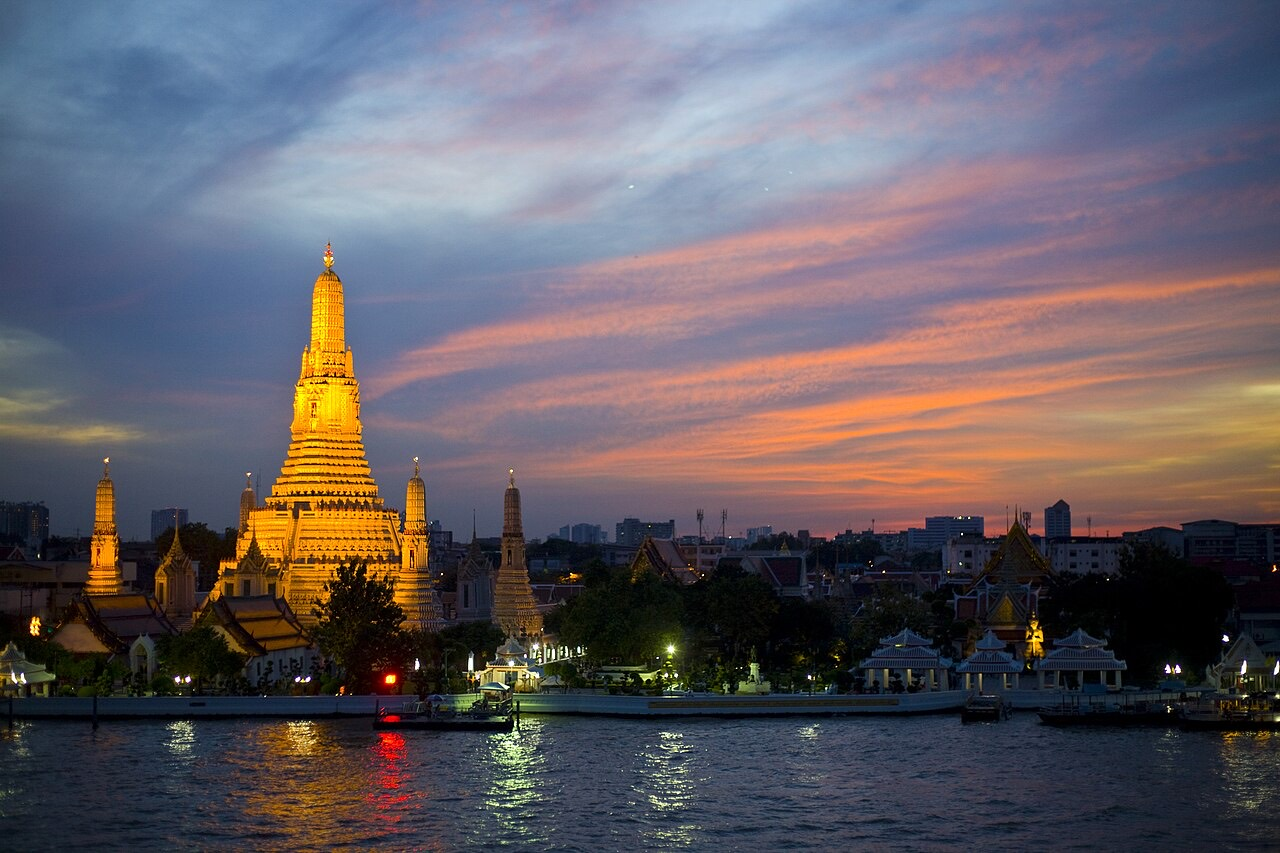
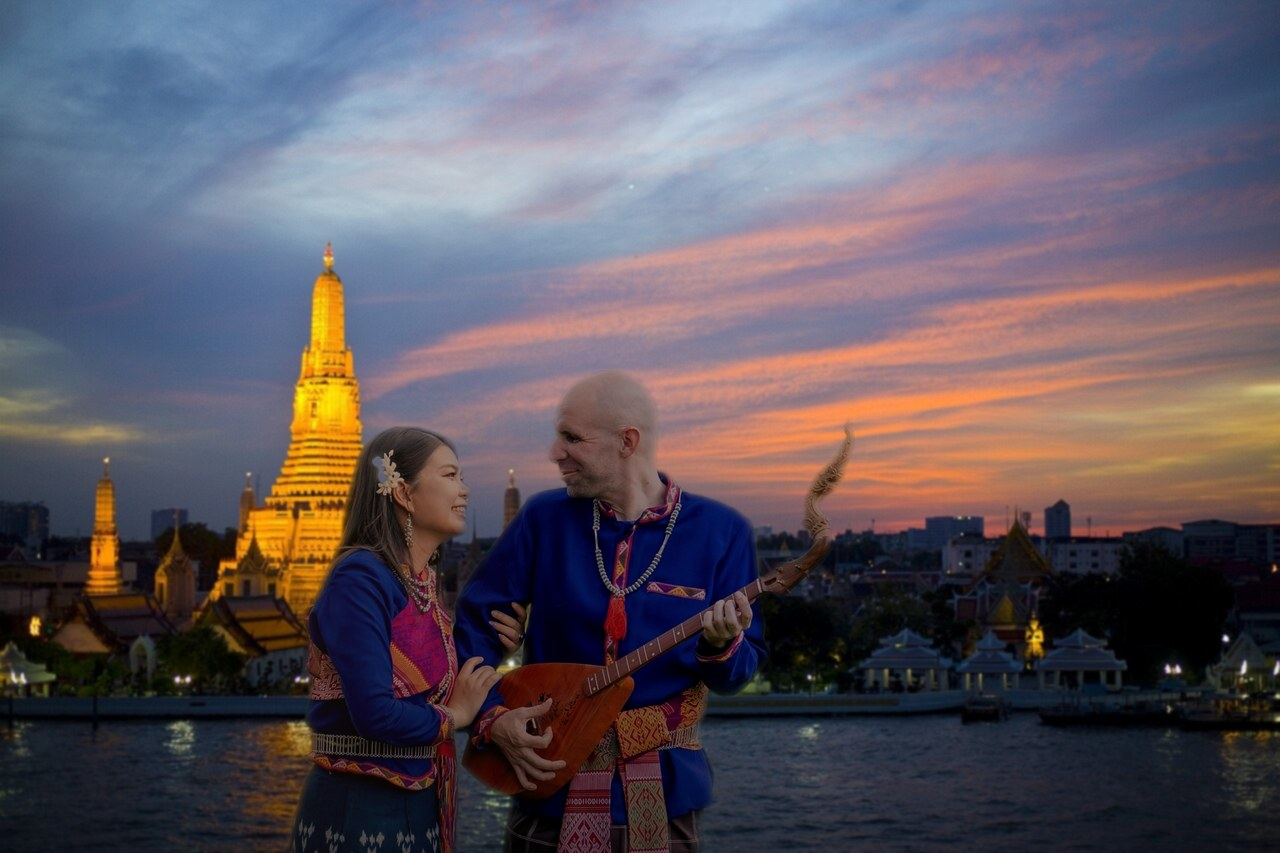
feat(home): cover montage of the couple in front of Wat Arun

diff --git a/index.html b/index.html
@@ -184,7 +184,7 @@ document.documentElement.className="lang-"+l;document.documentElement.lang=l;})(
 </script>
 </head>
 <body>
-<header class="top"><span></span><div class="switch" role="group" aria-label="Language / Langue"><button type="button" data-lang="en" lang="en">EN</button><button type="button" data-lang="fr" lang="fr">FR</button></div></header><section class="hero home-hero"><img src="img/cover.jpg?v=243bd205" alt="" width="1280" height="853" style="object-position:22% 50%"><div class="hero-text"><h1><span lang="en" class="l-en">Thailand Trip Guide</span><span lang="fr" class="l-fr">Thailand Trip Guide</span></h1><p class="blurb"><span lang="en" class="l-en">Palaces, temples, prehistory and sacred places, to read or to listen.</span><span lang="fr" class="l-fr">Palais, temples, préhistoire et lieux sacrés, à lire ou à écouter.</span></p></div></section><main class="sheet"><h2 class="section-title"><span lang="en" class="l-en">Day plans</span><span lang="fr" class="l-fr">Programmes du jour</span></h2><ul class="day-cards"><li><a class="day-card" href="days/2026-11-17/"><span class="badge"><svg viewBox="0 0 24 24" aria-hidden="true"><rect x="3.5" y="5" width="17" height="15" rx="2.5" fill="none" stroke="currentColor" stroke-width="1.8"/><path d="M3.5 10h17M8 3v4M16 3v4" fill="none" stroke="currentColor" stroke-width="1.8" stroke-linecap="round"/></svg></span><span class="day-card-text"><span class="eyebrow"><span lang="en" class="l-en">Day plan · Bangkok</span><span lang="fr" class="l-fr">Programme du jour · Bangkok</span></span><strong><span lang="en" class="l-en">Tuesday 17 November 2026</span><span lang="fr" class="l-fr">Mardi 17 novembre 2026</span></strong><span class="day-card-meta">13:00–20:10</span></span><svg class="i-chev" viewBox="0 0 24 24" aria-hidden="true"><path d="M9 5l7 7-7 7" fill="none" stroke="currentColor" stroke-width="2.2" stroke-linecap="round" stroke-linejoin="round"/></svg></a></li><li><a class="day-card" href="days/2026-11-18/"><span class="badge"><svg viewBox="0 0 24 24" aria-hidden="true"><rect x="3.5" y="5" width="17" height="15" rx="2.5" fill="none" stroke="currentColor" stroke-width="1.8"/><path d="M3.5 10h17M8 3v4M16 3v4" fill="none" stroke="currentColor" stroke-width="1.8" stroke-linecap="round"/></svg></span><span class="day-card-text"><span class="eyebrow"><span lang="en" class="l-en">Day plan · Ayutthaya</span><span lang="fr" class="l-fr">Programme du jour · Ayutthaya</span></span><strong><span lang="en" class="l-en">Wednesday 18 November 2026</span><span lang="fr" class="l-fr">Mercredi 18 novembre 2026</span></strong><span class="day-card-meta">08:00–17:00</span></span><svg class="i-chev" viewBox="0 0 24 24" aria-hidden="true"><path d="M9 5l7 7-7 7" fill="none" stroke="currentColor" stroke-width="2.2" stroke-linecap="round" stroke-linejoin="round"/></svg></a></li><li><a class="day-card" href="days/2026-11-19/"><span class="badge"><svg viewBox="0 0 24 24" aria-hidden="true"><rect x="3.5" y="5" width="17" height="15" rx="2.5" fill="none" stroke="currentColor" stroke-width="1.8"/><path d="M3.5 10h17M8 3v4M16 3v4" fill="none" stroke="currentColor" stroke-width="1.8" stroke-linecap="round"/></svg></span><span class="day-card-text"><span class="eyebrow"><span lang="en" class="l-en">Day plan · Udon Thani</span><span lang="fr" class="l-fr">Programme du jour · Udon Thani</span></span><strong><span lang="en" class="l-en">Thursday 19 November 2026</span><span lang="fr" class="l-fr">Jeudi 19 novembre 2026</span></strong><span class="day-card-meta">19:00–20:30</span></span><svg class="i-chev" viewBox="0 0 24 24" aria-hidden="true"><path d="M9 5l7 7-7 7" fill="none" stroke="currentColor" stroke-width="2.2" stroke-linecap="round" stroke-linejoin="round"/></svg></a></li><li><a class="day-card" href="days/2026-11-20/"><span class="badge"><svg viewBox="0 0 24 24" aria-hidden="true"><rect x="3.5" y="5" width="17" height="15" rx="2.5" fill="none" stroke="currentColor" stroke-width="1.8"/><path d="M3.5 10h17M8 3v4M16 3v4" fill="none" stroke="currentColor" stroke-width="1.8" stroke-linecap="round"/></svg></span><span class="day-card-text"><span class="eyebrow"><span lang="en" class="l-en">Day plan · Udon Thani</span><span lang="fr" class="l-fr">Programme du jour · Udon Thani</span></span><strong><span lang="en" class="l-en">Friday 20 November 2026</span><span lang="fr" class="l-fr">Vendredi 20 novembre 2026</span></strong><span class="day-card-meta">08:30–17:00</span></span><svg class="i-chev" viewBox="0 0 24 24" aria-hidden="true"><path d="M9 5l7 7-7 7" fill="none" stroke="currentColor" stroke-width="2.2" stroke-linecap="round" stroke-linejoin="round"/></svg></a></li><li><a class="day-card" href="days/2026-11-21/"><span class="badge"><svg viewBox="0 0 24 24" aria-hidden="true"><rect x="3.5" y="5" width="17" height="15" rx="2.5" fill="none" stroke="currentColor" stroke-width="1.8"/><path d="M3.5 10h17M8 3v4M16 3v4" fill="none" stroke="currentColor" stroke-width="1.8" stroke-linecap="round"/></svg></span><span class="day-card-text"><span class="eyebrow"><span lang="en" class="l-en">Day plan · Ban Dung</span><span lang="fr" class="l-fr">Programme du jour · Ban Dung</span></span><strong><span lang="en" class="l-en">Saturday 21 November 2026</span><span lang="fr" class="l-fr">Samedi 21 novembre 2026</span></strong><span class="day-card-meta">06:30–12:00</span></span><svg class="i-chev" viewBox="0 0 24 24" aria-hidden="true"><path d="M9 5l7 7-7 7" fill="none" stroke="currentColor" stroke-width="2.2" stroke-linecap="round" stroke-linejoin="round"/></svg></a></li></ul><h2 class="section-title"><span lang="en" class="l-en">Choose your location</span><span lang="fr" class="l-fr">Choisissez votre lieu</span></h2><ul class="locations"><li><a class="loc" href="grand-palace/"><img src="img/grand-palace_01.jpg?v=5f198708" alt="" loading="lazy" width="960" height="640"><span class="loc-text"><span class="loc-title"><span lang="en" class="l-en">The Grand Palace and Wat Phra Kaew</span><span lang="fr" class="l-fr">Le Grand Palais et le Wat Phra Kaew</span></span><span class="loc-blurb"><span lang="en" class="l-en">The royal palace founded in 1782 and the Temple of the Emerald Buddha.</span><span lang="fr" class="l-fr">Le palais royal fondé en 1782 et le temple du Bouddha d’Émeraude.</span></span><span class="loc-meta"><span lang="en" class="l-en">8 stops · 7 min listening</span><span lang="fr" class="l-fr">8 étapes · 8 min d’écoute</span></span></span><span class="loc-go"><svg class="i-chev" viewBox="0 0 24 24" aria-hidden="true"><path d="M9 5l7 7-7 7" fill="none" stroke="currentColor" stroke-width="2.2" stroke-linecap="round" stroke-linejoin="round"/></svg></span></a></li><li><a class="loc" href="wat-pho/"><img src="img/wat-pho_04.jpg?v=9cc0e86a" alt="" loading="lazy" width="960" height="640"><span class="loc-text"><span class="loc-title"><span lang="en" class="l-en">Wat Pho</span><span lang="fr" class="l-fr">Wat Pho</span></span><span class="loc-blurb"><span lang="en" class="l-en">The Reclining Buddha, four great chedis and a library in stone.</span><span lang="fr" class="l-fr">Le Bouddha couché, quatre grands chedis et une bibliothèque de pierre.</span></span><span class="loc-meta"><span lang="en" class="l-en">6 stops · 5 min listening</span><span lang="fr" class="l-fr">6 étapes · 6 min d’écoute</span></span></span><span class="loc-go"><svg class="i-chev" viewBox="0 0 24 24" aria-hidden="true"><path d="M9 5l7 7-7 7" fill="none" stroke="currentColor" stroke-width="2.2" stroke-linecap="round" stroke-linejoin="round"/></svg></span></a></li><li><a class="loc" href="ban-chiang/"><img src="img/ban-chiang_04.jpg?v=0c2c531a" alt="" loading="lazy" width="960" height="640"><span class="loc-text"><span class="loc-title"><span lang="en" class="l-en">Ban Chiang</span><span lang="fr" class="l-fr">Ban Chiang</span></span><span class="loc-blurb"><span lang="en" class="l-en">A prehistoric village, its painted pottery and early bronze, on the World Heritage List.</span><span lang="fr" class="l-fr">Un village préhistorique, ses poteries peintes et ses premiers bronzes, inscrit au patrimoine mondial.</span></span><span class="loc-meta"><span lang="en" class="l-en">7 stops · 7 min listening</span><span lang="fr" class="l-fr">7 étapes · 8 min d’écoute</span></span></span><span class="loc-go"><svg class="i-chev" viewBox="0 0 24 24" aria-hidden="true"><path d="M9 5l7 7-7 7" fill="none" stroke="currentColor" stroke-width="2.2" stroke-linecap="round" stroke-linejoin="round"/></svg></span></a></li><li><a class="loc" href="kham-chanot/"><img src="img/kham-chanot_01.jpg?v=3cfec655" alt="" loading="lazy" width="960" height="640"><span class="loc-text"><span class="loc-title"><span lang="en" class="l-en">Kham Chanot</span><span lang="fr" class="l-fr">Kham Chanot</span></span><span class="loc-blurb"><span lang="en" class="l-en">A sacred forest island of chanot palms, at the heart of the naga legend.</span><span lang="fr" class="l-fr">Une île-forêt sacrée de palmiers chanot, au cœur de la légende des nagas.</span></span><span class="loc-meta"><span lang="en" class="l-en">6 stops · 5 min listening</span><span lang="fr" class="l-fr">6 étapes · 5 min d’écoute</span></span></span><span class="loc-go"><svg class="i-chev" viewBox="0 0 24 24" aria-hidden="true"><path d="M9 5l7 7-7 7" fill="none" stroke="currentColor" stroke-width="2.2" stroke-linecap="round" stroke-linejoin="round"/></svg></span></a></li><li><a class="loc" href="ban-dung-salt/"><img src="img/ban-dung-salt_01.jpg?v=859c1561" alt="" loading="lazy" width="960" height="640"><span class="loc-text"><span class="loc-title"><span lang="en" class="l-en">Ban Dung Salt Fields</span><span lang="fr" class="l-fr">Les salines de Ban Dung</span></span><span class="loc-blurb"><span lang="en" class="l-en">Inland salt drawn from an ancient underground salt bed, by sun and by fire.</span><span lang="fr" class="l-fr">Du sel des terres tiré d’un ancien gisement souterrain, par le soleil et par le feu.</span></span><span class="loc-meta"><span lang="en" class="l-en">5 stops · 4 min listening</span><span lang="fr" class="l-fr">5 étapes · 5 min d’écoute</span></span></span><span class="loc-go"><svg class="i-chev" viewBox="0 0 24 24" aria-hidden="true"><path d="M9 5l7 7-7 7" fill="none" stroke="currentColor" stroke-width="2.2" stroke-linecap="round" stroke-linejoin="round"/></svg></span></a></li><li><a class="loc" href="isan-wedding/"><img src="img/isan-wedding_04.jpg?v=ffdcba92" alt="" loading="lazy" width="960" height="640"><span class="hero-credit"><span lang="en" class="l-en">Illustration (AI-generated)</span><span lang="fr" class="l-fr">Illustration générée par IA</span></span><span class="loc-text"><span class="loc-title"><span lang="en" class="l-en">At a Thai-Isan Wedding</span><span lang="fr" class="l-fr">Un mariage thaï de l’Isan</span></span><span class="loc-blurb"><span lang="en" class="l-en">What each ceremony means and what guests can expect.</span><span lang="fr" class="l-fr">Ce que signifie chaque cérémonie et à quoi s’attendre.</span></span><span class="loc-meta"><span lang="en" class="l-en">5 parts · 5 min listening</span><span lang="fr" class="l-fr">5 parties · 6 min d’écoute</span></span></span><span class="loc-go"><svg class="i-chev" viewBox="0 0 24 24" aria-hidden="true"><path d="M9 5l7 7-7 7" fill="none" stroke="currentColor" stroke-width="2.2" stroke-linecap="round" stroke-linejoin="round"/></svg></span></a></li></ul><ul class="how"><li><span class="badge"><svg viewBox="0 0 24 24" aria-hidden="true"><path d="M4 5.5A1.5 1.5 0 0 1 5.5 4H11v15H5.5A1.5 1.5 0 0 1 4 17.5zM20 5.5A1.5 1.5 0 0 0 18.5 4H13v15h5.5a1.5 1.5 0 0 0 1.5-1.5z" fill="none" stroke="currentColor" stroke-width="1.8" stroke-linejoin="round"/></svg></span><span><strong><span lang="en" class="l-en">Read</span><span lang="fr" class="l-fr">Lire</span></strong><span lang="en" class="l-en">Every stop is written to be read on its own.</span><span lang="fr" class="l-fr">Chaque étape se lit seule, sans audio.</span></span></li><li><span class="badge"><svg viewBox="0 0 24 24" aria-hidden="true"><path d="M4 15v-3a8 8 0 0 1 16 0v3M4 15a2 2 0 0 1 2-2h1v7H6a2 2 0 0 1-2-2zm16 0a2 2 0 0 0-2-2h-1v7h1a2 2 0 0 0 2-2z" fill="none" stroke="currentColor" stroke-width="1.8" stroke-linejoin="round"/></svg></span><span><strong><span lang="en" class="l-en">Listen</span><span lang="fr" class="l-fr">Écouter</span></strong><span lang="en" class="l-en">Optional audio, about a minute per stop.</span><span lang="fr" class="l-fr">Audio facultatif, environ une minute par étape.</span></span></li><li><span class="badge"><svg viewBox="0 0 24 24" aria-hidden="true"><path d="M12 3v11m0 0l-4-4m4 4l4-4M4 17v1.5A1.5 1.5 0 0 0 5.5 20h13a1.5 1.5 0 0 0 1.5-1.5V17" fill="none" stroke="currentColor" stroke-width="1.8" stroke-linecap="round" stroke-linejoin="round"/></svg></span><span><strong><span lang="en" class="l-en">Offline</span><span lang="fr" class="l-fr">Hors ligne</span></strong><span lang="en" class="l-en">Download a location before you travel.</span><span lang="fr" class="l-fr">Téléchargez un lieu avant le voyage.</span></span></li></ul></main><footer><h2><span lang="en" class="l-en">About this guide</span><span lang="fr" class="l-fr">À propos de ce guide</span></h2><p><span lang="en" class="l-en">Every fact comes from official sources: Grand Palace and Wat Pho material, the Fine Arts Department of Thailand, UNESCO, and for the Udon Thani sites the Tourism Authority of Thailand and other Thai government offices. Statements no saved source confirms are marked. Audio is computer-generated speech that reads the same text you see.</span><span lang="fr" class="l-fr">Chaque fait provient de sources officielles : documents du Grand Palais et du Wat Pho, Département des Beaux-Arts de Thaïlande, UNESCO et, pour les sites d’Udon Thani, Office national du tourisme de Thaïlande et autres services publics thaïlandais. Les affirmations qu’aucune source enregistrée ne confirme sont signalées. L’audio est une voix de synthèse qui lit le texte affiché.</span></p><p class="proof pending"><span lang="en" class="l-en">The French text is a draft translation and has not yet been proofread by a person.</span><span lang="fr" class="l-fr">Le texte français est une traduction provisoire, pas encore relue par une personne.</span></p><p><span lang="en" class="l-en">Sources are listed at the bottom of each location page.</span><span lang="fr" class="l-fr">Les sources sont listées en bas de chaque page de lieu.</span></p><p class="credit"><span lang="en" class="l-en">Cover photo: Wat Arun at sunset</span><span lang="fr" class="l-fr">Photo de couverture : le Wat Arun au coucher du soleil</span>, <a href="https://commons.wikimedia.org/wiki/File:Wat_Arun_Sunset.jpg">miketnorton</a>, <a href="https://creativecommons.org/licenses/by/2.0">CC BY 2.0</a></p></footer><script>var SW_URL="sw.js";</script><script>
+<header class="top"><span></span><div class="switch" role="group" aria-label="Language / Langue"><button type="button" data-lang="en" lang="en">EN</button><button type="button" data-lang="fr" lang="fr">FR</button></div></header><section class="hero home-hero"><img src="img/cover.jpg?v=b52ecbe3" alt="" width="1280" height="853" style="object-position:38% 50%"><div class="hero-text"><h1><span lang="en" class="l-en">Thailand Trip Guide</span><span lang="fr" class="l-fr">Thailand Trip Guide</span></h1><p class="blurb"><span lang="en" class="l-en">Palaces, temples, prehistory and sacred places, to read or to listen.</span><span lang="fr" class="l-fr">Palais, temples, préhistoire et lieux sacrés, à lire ou à écouter.</span></p></div></section><main class="sheet"><h2 class="section-title"><span lang="en" class="l-en">Day plans</span><span lang="fr" class="l-fr">Programmes du jour</span></h2><ul class="day-cards"><li><a class="day-card" href="days/2026-11-17/"><span class="badge"><svg viewBox="0 0 24 24" aria-hidden="true"><rect x="3.5" y="5" width="17" height="15" rx="2.5" fill="none" stroke="currentColor" stroke-width="1.8"/><path d="M3.5 10h17M8 3v4M16 3v4" fill="none" stroke="currentColor" stroke-width="1.8" stroke-linecap="round"/></svg></span><span class="day-card-text"><span class="eyebrow"><span lang="en" class="l-en">Day plan · Bangkok</span><span lang="fr" class="l-fr">Programme du jour · Bangkok</span></span><strong><span lang="en" class="l-en">Tuesday 17 November 2026</span><span lang="fr" class="l-fr">Mardi 17 novembre 2026</span></strong><span class="day-card-meta">13:00–20:10</span></span><svg class="i-chev" viewBox="0 0 24 24" aria-hidden="true"><path d="M9 5l7 7-7 7" fill="none" stroke="currentColor" stroke-width="2.2" stroke-linecap="round" stroke-linejoin="round"/></svg></a></li><li><a class="day-card" href="days/2026-11-18/"><span class="badge"><svg viewBox="0 0 24 24" aria-hidden="true"><rect x="3.5" y="5" width="17" height="15" rx="2.5" fill="none" stroke="currentColor" stroke-width="1.8"/><path d="M3.5 10h17M8 3v4M16 3v4" fill="none" stroke="currentColor" stroke-width="1.8" stroke-linecap="round"/></svg></span><span class="day-card-text"><span class="eyebrow"><span lang="en" class="l-en">Day plan · Ayutthaya</span><span lang="fr" class="l-fr">Programme du jour · Ayutthaya</span></span><strong><span lang="en" class="l-en">Wednesday 18 November 2026</span><span lang="fr" class="l-fr">Mercredi 18 novembre 2026</span></strong><span class="day-card-meta">08:00–17:00</span></span><svg class="i-chev" viewBox="0 0 24 24" aria-hidden="true"><path d="M9 5l7 7-7 7" fill="none" stroke="currentColor" stroke-width="2.2" stroke-linecap="round" stroke-linejoin="round"/></svg></a></li><li><a class="day-card" href="days/2026-11-19/"><span class="badge"><svg viewBox="0 0 24 24" aria-hidden="true"><rect x="3.5" y="5" width="17" height="15" rx="2.5" fill="none" stroke="currentColor" stroke-width="1.8"/><path d="M3.5 10h17M8 3v4M16 3v4" fill="none" stroke="currentColor" stroke-width="1.8" stroke-linecap="round"/></svg></span><span class="day-card-text"><span class="eyebrow"><span lang="en" class="l-en">Day plan · Udon Thani</span><span lang="fr" class="l-fr">Programme du jour · Udon Thani</span></span><strong><span lang="en" class="l-en">Thursday 19 November 2026</span><span lang="fr" class="l-fr">Jeudi 19 novembre 2026</span></strong><span class="day-card-meta">19:00–20:30</span></span><svg class="i-chev" viewBox="0 0 24 24" aria-hidden="true"><path d="M9 5l7 7-7 7" fill="none" stroke="currentColor" stroke-width="2.2" stroke-linecap="round" stroke-linejoin="round"/></svg></a></li><li><a class="day-card" href="days/2026-11-20/"><span class="badge"><svg viewBox="0 0 24 24" aria-hidden="true"><rect x="3.5" y="5" width="17" height="15" rx="2.5" fill="none" stroke="currentColor" stroke-width="1.8"/><path d="M3.5 10h17M8 3v4M16 3v4" fill="none" stroke="currentColor" stroke-width="1.8" stroke-linecap="round"/></svg></span><span class="day-card-text"><span class="eyebrow"><span lang="en" class="l-en">Day plan · Udon Thani</span><span lang="fr" class="l-fr">Programme du jour · Udon Thani</span></span><strong><span lang="en" class="l-en">Friday 20 November 2026</span><span lang="fr" class="l-fr">Vendredi 20 novembre 2026</span></strong><span class="day-card-meta">08:30–17:00</span></span><svg class="i-chev" viewBox="0 0 24 24" aria-hidden="true"><path d="M9 5l7 7-7 7" fill="none" stroke="currentColor" stroke-width="2.2" stroke-linecap="round" stroke-linejoin="round"/></svg></a></li><li><a class="day-card" href="days/2026-11-21/"><span class="badge"><svg viewBox="0 0 24 24" aria-hidden="true"><rect x="3.5" y="5" width="17" height="15" rx="2.5" fill="none" stroke="currentColor" stroke-width="1.8"/><path d="M3.5 10h17M8 3v4M16 3v4" fill="none" stroke="currentColor" stroke-width="1.8" stroke-linecap="round"/></svg></span><span class="day-card-text"><span class="eyebrow"><span lang="en" class="l-en">Day plan · Ban Dung</span><span lang="fr" class="l-fr">Programme du jour · Ban Dung</span></span><strong><span lang="en" class="l-en">Saturday 21 November 2026</span><span lang="fr" class="l-fr">Samedi 21 novembre 2026</span></strong><span class="day-card-meta">06:30–12:00</span></span><svg class="i-chev" viewBox="0 0 24 24" aria-hidden="true"><path d="M9 5l7 7-7 7" fill="none" stroke="currentColor" stroke-width="2.2" stroke-linecap="round" stroke-linejoin="round"/></svg></a></li></ul><h2 class="section-title"><span lang="en" class="l-en">Choose your location</span><span lang="fr" class="l-fr">Choisissez votre lieu</span></h2><ul class="locations"><li><a class="loc" href="grand-palace/"><img src="img/grand-palace_01.jpg?v=5f198708" alt="" loading="lazy" width="960" height="640"><span class="loc-text"><span class="loc-title"><span lang="en" class="l-en">The Grand Palace and Wat Phra Kaew</span><span lang="fr" class="l-fr">Le Grand Palais et le Wat Phra Kaew</span></span><span class="loc-blurb"><span lang="en" class="l-en">The royal palace founded in 1782 and the Temple of the Emerald Buddha.</span><span lang="fr" class="l-fr">Le palais royal fondé en 1782 et le temple du Bouddha d’Émeraude.</span></span><span class="loc-meta"><span lang="en" class="l-en">8 stops · 7 min listening</span><span lang="fr" class="l-fr">8 étapes · 8 min d’écoute</span></span></span><span class="loc-go"><svg class="i-chev" viewBox="0 0 24 24" aria-hidden="true"><path d="M9 5l7 7-7 7" fill="none" stroke="currentColor" stroke-width="2.2" stroke-linecap="round" stroke-linejoin="round"/></svg></span></a></li><li><a class="loc" href="wat-pho/"><img src="img/wat-pho_04.jpg?v=9cc0e86a" alt="" loading="lazy" width="960" height="640"><span class="loc-text"><span class="loc-title"><span lang="en" class="l-en">Wat Pho</span><span lang="fr" class="l-fr">Wat Pho</span></span><span class="loc-blurb"><span lang="en" class="l-en">The Reclining Buddha, four great chedis and a library in stone.</span><span lang="fr" class="l-fr">Le Bouddha couché, quatre grands chedis et une bibliothèque de pierre.</span></span><span class="loc-meta"><span lang="en" class="l-en">6 stops · 5 min listening</span><span lang="fr" class="l-fr">6 étapes · 6 min d’écoute</span></span></span><span class="loc-go"><svg class="i-chev" viewBox="0 0 24 24" aria-hidden="true"><path d="M9 5l7 7-7 7" fill="none" stroke="currentColor" stroke-width="2.2" stroke-linecap="round" stroke-linejoin="round"/></svg></span></a></li><li><a class="loc" href="ban-chiang/"><img src="img/ban-chiang_04.jpg?v=0c2c531a" alt="" loading="lazy" width="960" height="640"><span class="loc-text"><span class="loc-title"><span lang="en" class="l-en">Ban Chiang</span><span lang="fr" class="l-fr">Ban Chiang</span></span><span class="loc-blurb"><span lang="en" class="l-en">A prehistoric village, its painted pottery and early bronze, on the World Heritage List.</span><span lang="fr" class="l-fr">Un village préhistorique, ses poteries peintes et ses premiers bronzes, inscrit au patrimoine mondial.</span></span><span class="loc-meta"><span lang="en" class="l-en">7 stops · 7 min listening</span><span lang="fr" class="l-fr">7 étapes · 8 min d’écoute</span></span></span><span class="loc-go"><svg class="i-chev" viewBox="0 0 24 24" aria-hidden="true"><path d="M9 5l7 7-7 7" fill="none" stroke="currentColor" stroke-width="2.2" stroke-linecap="round" stroke-linejoin="round"/></svg></span></a></li><li><a class="loc" href="kham-chanot/"><img src="img/kham-chanot_01.jpg?v=3cfec655" alt="" loading="lazy" width="960" height="640"><span class="loc-text"><span class="loc-title"><span lang="en" class="l-en">Kham Chanot</span><span lang="fr" class="l-fr">Kham Chanot</span></span><span class="loc-blurb"><span lang="en" class="l-en">A sacred forest island of chanot palms, at the heart of the naga legend.</span><span lang="fr" class="l-fr">Une île-forêt sacrée de palmiers chanot, au cœur de la légende des nagas.</span></span><span class="loc-meta"><span lang="en" class="l-en">6 stops · 5 min listening</span><span lang="fr" class="l-fr">6 étapes · 5 min d’écoute</span></span></span><span class="loc-go"><svg class="i-chev" viewBox="0 0 24 24" aria-hidden="true"><path d="M9 5l7 7-7 7" fill="none" stroke="currentColor" stroke-width="2.2" stroke-linecap="round" stroke-linejoin="round"/></svg></span></a></li><li><a class="loc" href="ban-dung-salt/"><img src="img/ban-dung-salt_01.jpg?v=859c1561" alt="" loading="lazy" width="960" height="640"><span class="loc-text"><span class="loc-title"><span lang="en" class="l-en">Ban Dung Salt Fields</span><span lang="fr" class="l-fr">Les salines de Ban Dung</span></span><span class="loc-blurb"><span lang="en" class="l-en">Inland salt drawn from an ancient underground salt bed, by sun and by fire.</span><span lang="fr" class="l-fr">Du sel des terres tiré d’un ancien gisement souterrain, par le soleil et par le feu.</span></span><span class="loc-meta"><span lang="en" class="l-en">5 stops · 4 min listening</span><span lang="fr" class="l-fr">5 étapes · 5 min d’écoute</span></span></span><span class="loc-go"><svg class="i-chev" viewBox="0 0 24 24" aria-hidden="true"><path d="M9 5l7 7-7 7" fill="none" stroke="currentColor" stroke-width="2.2" stroke-linecap="round" stroke-linejoin="round"/></svg></span></a></li><li><a class="loc" href="isan-wedding/"><img src="img/isan-wedding_04.jpg?v=ffdcba92" alt="" loading="lazy" width="960" height="640"><span class="hero-credit"><span lang="en" class="l-en">Illustration (AI-generated)</span><span lang="fr" class="l-fr">Illustration générée par IA</span></span><span class="loc-text"><span class="loc-title"><span lang="en" class="l-en">At a Thai-Isan Wedding</span><span lang="fr" class="l-fr">Un mariage thaï de l’Isan</span></span><span class="loc-blurb"><span lang="en" class="l-en">What each ceremony means and what guests can expect.</span><span lang="fr" class="l-fr">Ce que signifie chaque cérémonie et à quoi s’attendre.</span></span><span class="loc-meta"><span lang="en" class="l-en">5 parts · 5 min listening</span><span lang="fr" class="l-fr">5 parties · 6 min d’écoute</span></span></span><span class="loc-go"><svg class="i-chev" viewBox="0 0 24 24" aria-hidden="true"><path d="M9 5l7 7-7 7" fill="none" stroke="currentColor" stroke-width="2.2" stroke-linecap="round" stroke-linejoin="round"/></svg></span></a></li></ul><ul class="how"><li><span class="badge"><svg viewBox="0 0 24 24" aria-hidden="true"><path d="M4 5.5A1.5 1.5 0 0 1 5.5 4H11v15H5.5A1.5 1.5 0 0 1 4 17.5zM20 5.5A1.5 1.5 0 0 0 18.5 4H13v15h5.5a1.5 1.5 0 0 0 1.5-1.5z" fill="none" stroke="currentColor" stroke-width="1.8" stroke-linejoin="round"/></svg></span><span><strong><span lang="en" class="l-en">Read</span><span lang="fr" class="l-fr">Lire</span></strong><span lang="en" class="l-en">Every stop is written to be read on its own.</span><span lang="fr" class="l-fr">Chaque étape se lit seule, sans audio.</span></span></li><li><span class="badge"><svg viewBox="0 0 24 24" aria-hidden="true"><path d="M4 15v-3a8 8 0 0 1 16 0v3M4 15a2 2 0 0 1 2-2h1v7H6a2 2 0 0 1-2-2zm16 0a2 2 0 0 0-2-2h-1v7h1a2 2 0 0 0 2-2z" fill="none" stroke="currentColor" stroke-width="1.8" stroke-linejoin="round"/></svg></span><span><strong><span lang="en" class="l-en">Listen</span><span lang="fr" class="l-fr">Écouter</span></strong><span lang="en" class="l-en">Optional audio, about a minute per stop.</span><span lang="fr" class="l-fr">Audio facultatif, environ une minute par étape.</span></span></li><li><span class="badge"><svg viewBox="0 0 24 24" aria-hidden="true"><path d="M12 3v11m0 0l-4-4m4 4l4-4M4 17v1.5A1.5 1.5 0 0 0 5.5 20h13a1.5 1.5 0 0 0 1.5-1.5V17" fill="none" stroke="currentColor" stroke-width="1.8" stroke-linecap="round" stroke-linejoin="round"/></svg></span><span><strong><span lang="en" class="l-en">Offline</span><span lang="fr" class="l-fr">Hors ligne</span></strong><span lang="en" class="l-en">Download a location before you travel.</span><span lang="fr" class="l-fr">Téléchargez un lieu avant le voyage.</span></span></li></ul></main><footer><h2><span lang="en" class="l-en">About this guide</span><span lang="fr" class="l-fr">À propos de ce guide</span></h2><p><span lang="en" class="l-en">Every fact comes from official sources: Grand Palace and Wat Pho material, the Fine Arts Department of Thailand, UNESCO, and for the Udon Thani sites the Tourism Authority of Thailand and other Thai government offices. Statements no saved source confirms are marked. Audio is computer-generated speech that reads the same text you see.</span><span lang="fr" class="l-fr">Chaque fait provient de sources officielles : documents du Grand Palais et du Wat Pho, Département des Beaux-Arts de Thaïlande, UNESCO et, pour les sites d’Udon Thani, Office national du tourisme de Thaïlande et autres services publics thaïlandais. Les affirmations qu’aucune source enregistrée ne confirme sont signalées. L’audio est une voix de synthèse qui lit le texte affiché.</span></p><p class="proof pending"><span lang="en" class="l-en">The French text is a draft translation and has not yet been proofread by a person.</span><span lang="fr" class="l-fr">Le texte français est une traduction provisoire, pas encore relue par une personne.</span></p><p><span lang="en" class="l-en">Sources are listed at the bottom of each location page.</span><span lang="fr" class="l-fr">Les sources sont listées en bas de chaque page de lieu.</span></p><p class="credit"><span lang="en" class="l-en">Cover: photo montage of the couple (private photo, used with permission) in front of Wat Arun at sunset, background photo modified</span><span lang="fr" class="l-fr">Couverture : photomontage des mariés (photo privée, utilisée avec autorisation) devant le Wat Arun au coucher du soleil, photo de fond modifiée</span>, <a href="https://commons.wikimedia.org/wiki/File:Wat_Arun_Sunset.jpg">miketnorton</a>, <a href="https://creativecommons.org/licenses/by/2.0">CC BY 2.0</a></p></footer><script>var SW_URL="sw.js";</script><script>
 (function(){
   var root=document.documentElement;
   function setLang(l){
